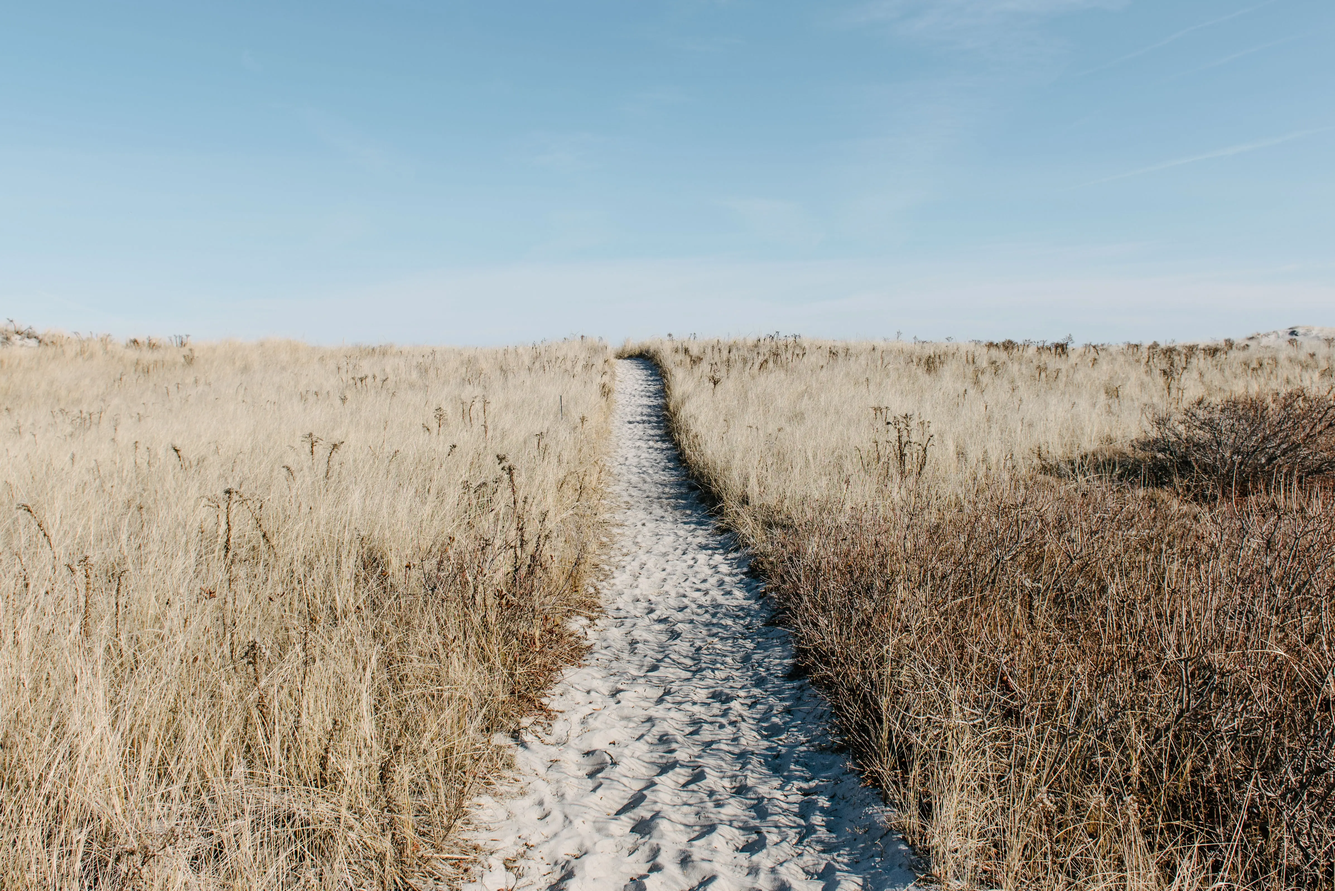
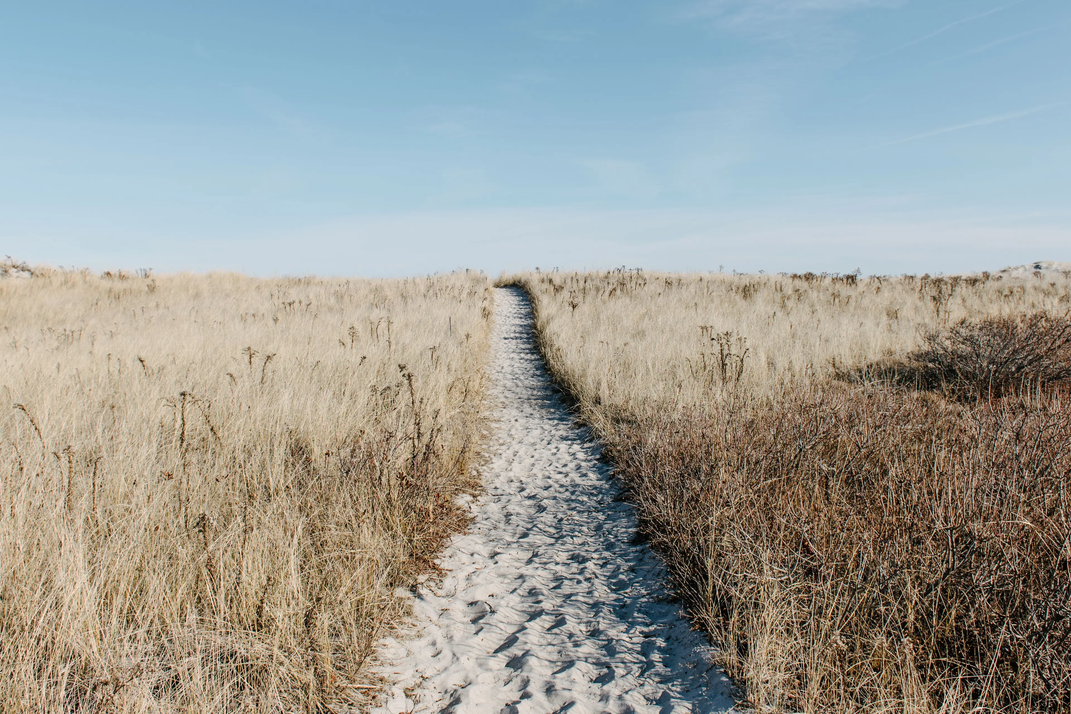
frontend: aboutus: more image optimization

Changed region(s): [[0.7188, 0.9052, 0.75, 0.9364]]

diff --git a/frontend/src/pages/AboutUs/AboutUs.css b/frontend/src/pages/AboutUs/AboutUs.css
@@ -39,7 +39,7 @@
   display: flex;
   justify-content: center;
   background: linear-gradient(rgba(0, 0, 0, 0.3), rgba(0, 0, 0, 0.3)),
-    url("../../components/AboutUs/img/Servers.jpg");
+    url("../../components/AboutUs/img/Servers.webp");
   background-repeat: no-repeat;
   background-size: cover;
 }
